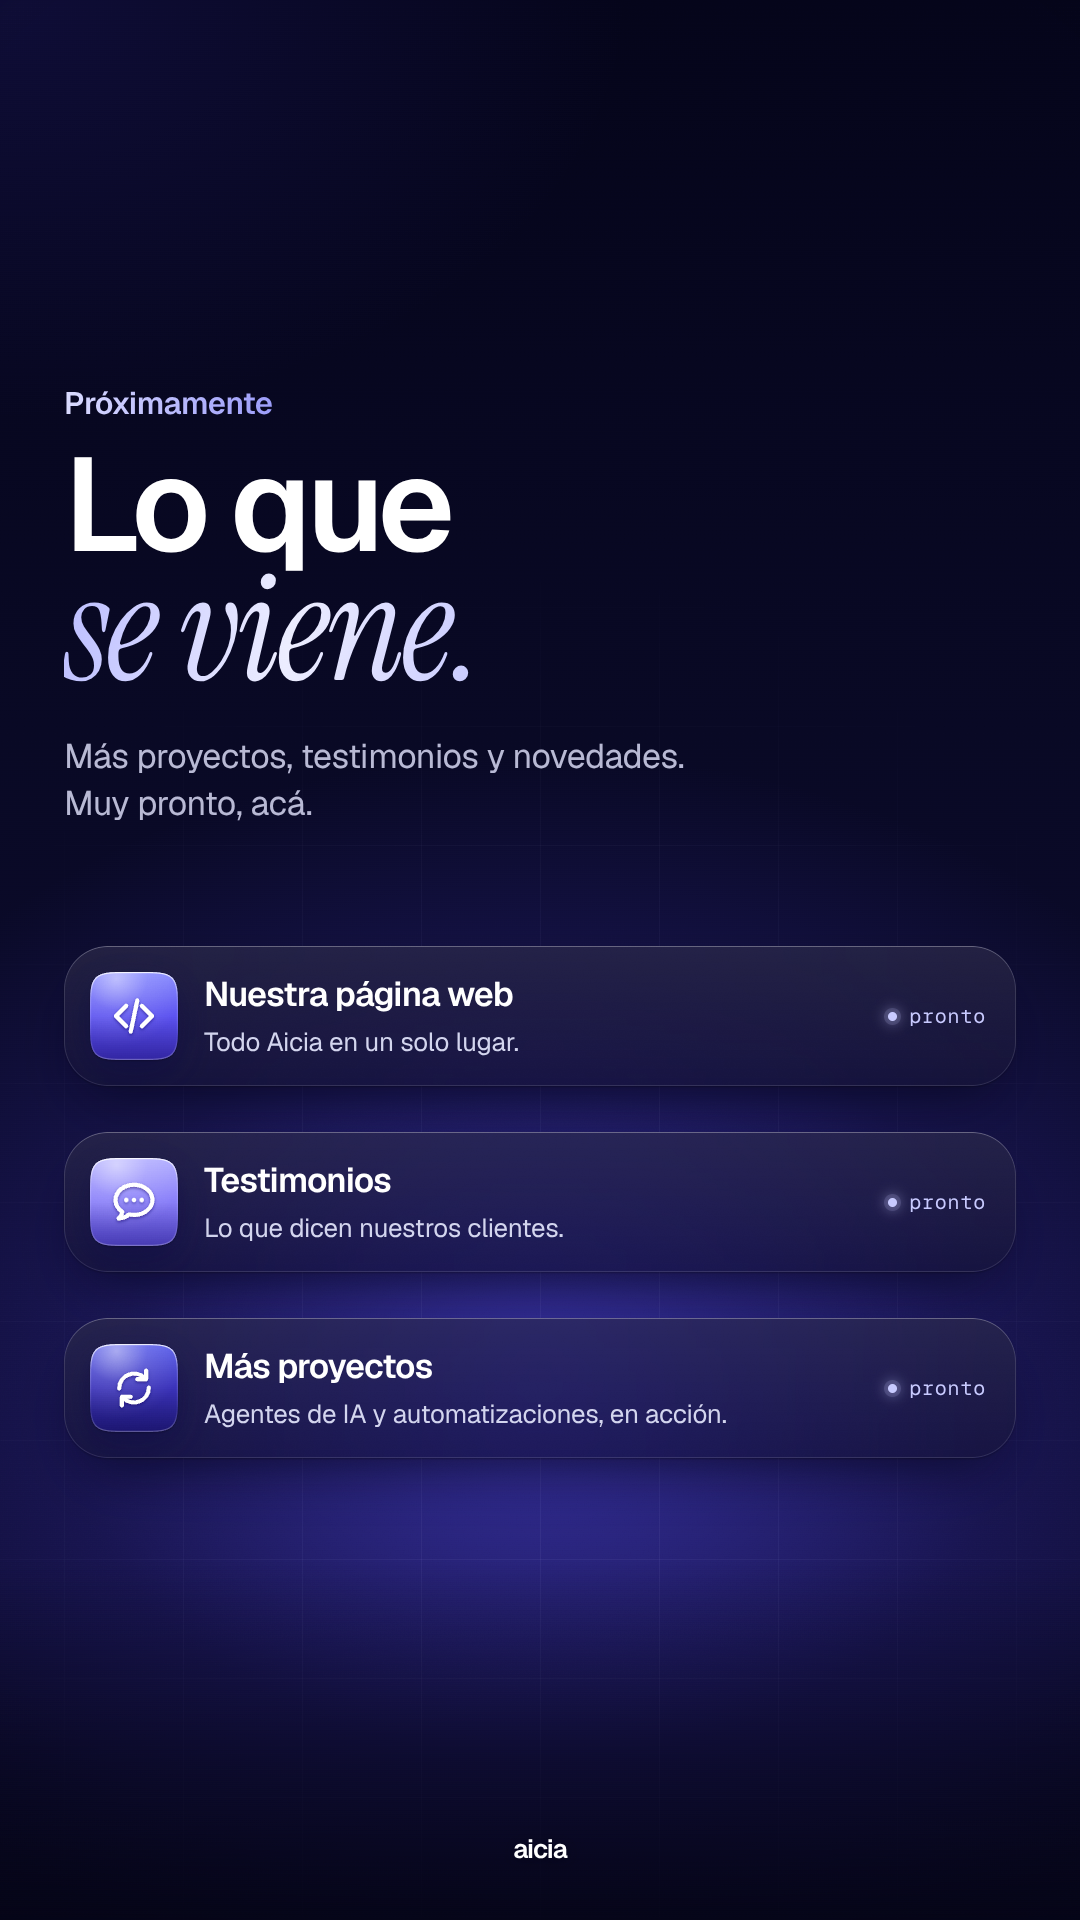
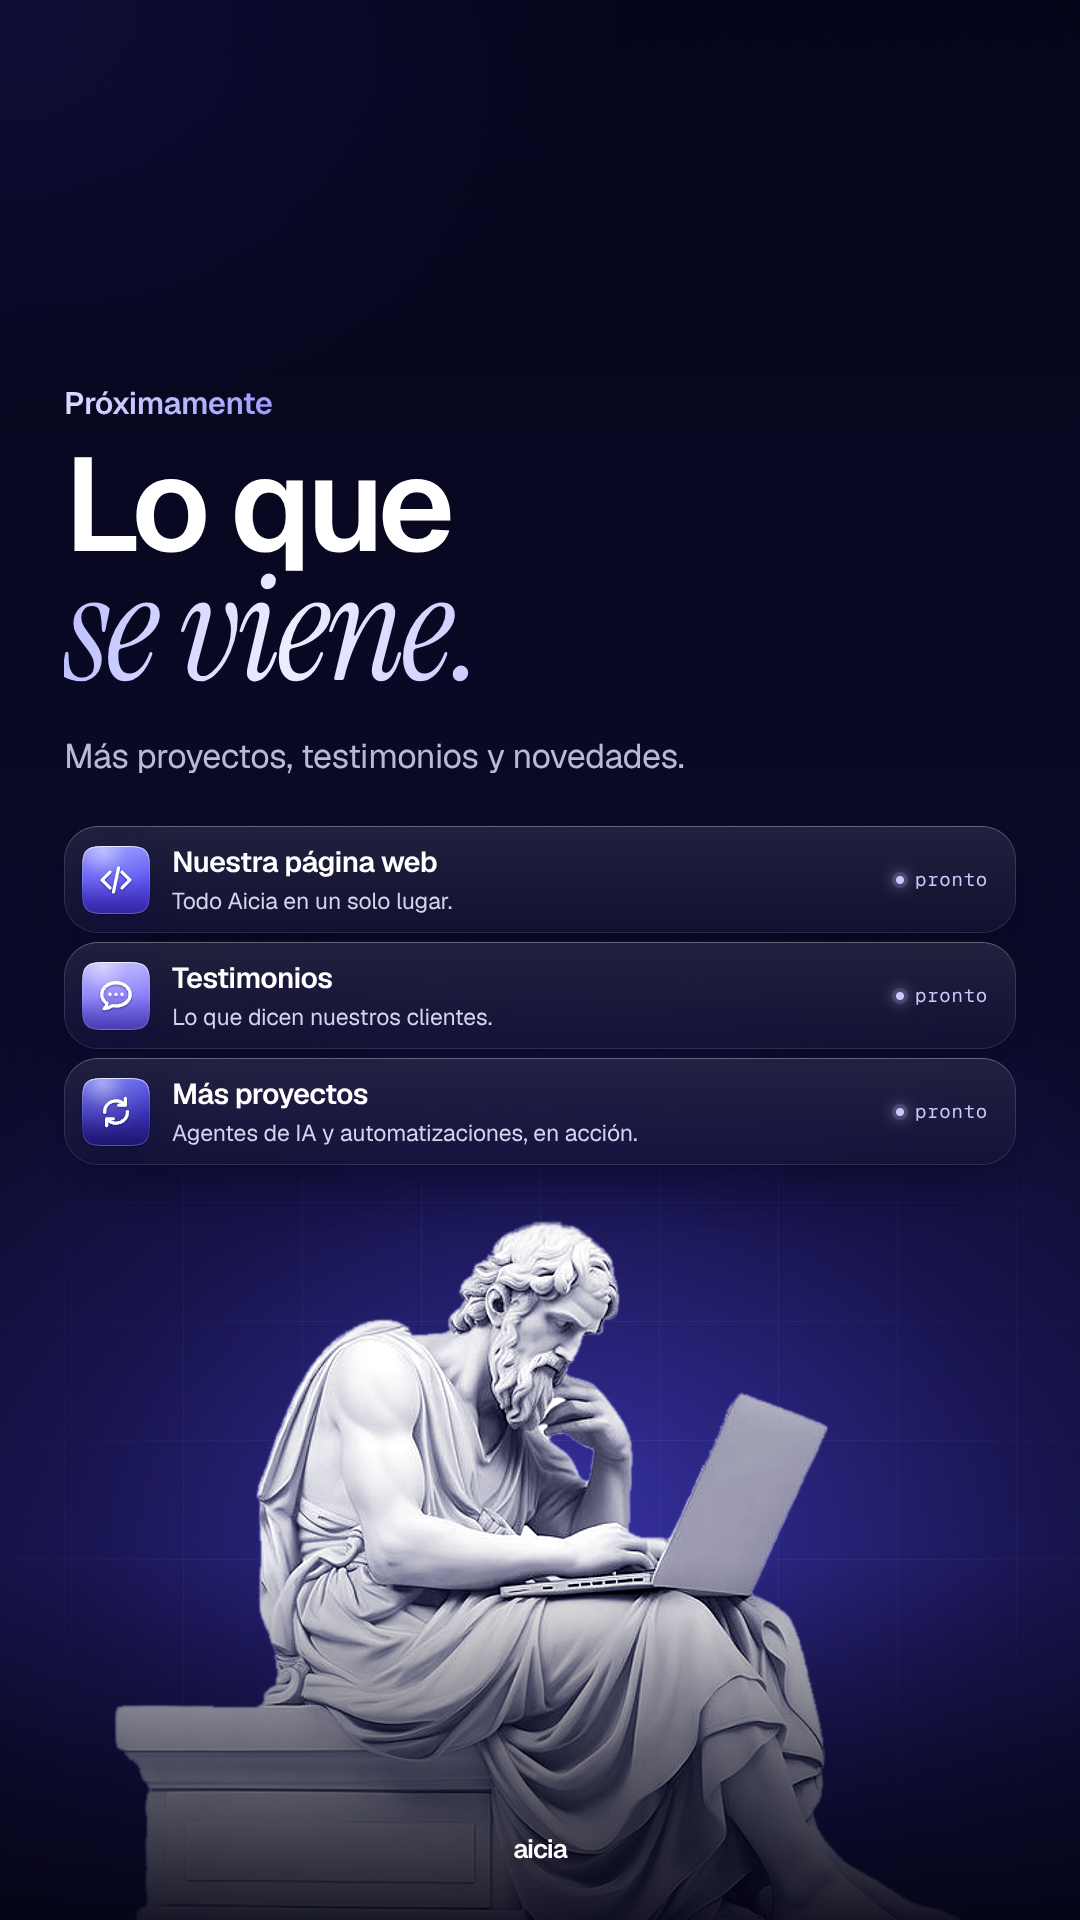
Proyectos · Próximamente: filósofo de mármol con laptop como imagen protagonista
Claude-Session: https://claude.ai/code/session_01SBSshHAET78NiDLxszLW9R

Changed region(s): [[0.0611, 0.4062, 0.8861, 1.0], [0.825, 0.5, 0.9167, 0.6562], [0.825, 0.4375, 0.8556, 0.4688]]

diff --git a/historias/clientes-proyectos/historias.html b/historias/clientes-proyectos/historias.html
@@ -240,19 +240,19 @@ svg.app .gl .f{fill:#fff;stroke:none}
 .card .pill b{font-weight:600;background:linear-gradient(90deg,#E4E5FF,#B9BBFF);-webkit-background-clip:text;background-clip:text;-webkit-text-fill-color:transparent}
 
 /* Proyectos · Próximamente: lo que se viene, en tarjetas de vidrio (sin fechas ni números inventados) */
-.p3{--gx:50%;--gy:72%;--gw:1150px;--gh:900px}
+.p3{--gx:52%;--gy:80%;--gw:1150px;--gh:900px}
 .p3 .eyebrow{left:var(--m);top:384px}
 .p3 .title{left:var(--m);top:440px;font-size:132px}
 .p3 .title .serif{font-size:150px}
 .p3 .lede{left:var(--m);top:734px;width:952px}
-.soon{left:var(--m);width:952px;display:flex;align-items:center;gap:26px;padding:26px 30px 26px 26px;border-radius:44px;z-index:4;
+.soon{left:var(--m);width:952px;display:flex;align-items:center;gap:22px;padding:17px 28px 17px 18px;border-radius:34px;z-index:4;
   background:linear-gradient(180deg,rgba(255,255,255,.09),rgba(255,255,255,.03)),rgba(11,10,34,.72)!important}
-.soon svg.app{width:88px;height:88px}
-.soon .nt{flex:1;min-width:0;display:flex;flex-direction:column;gap:8px}
-.soon b{font-size:34px;font-weight:600;letter-spacing:-0.025em;color:#fff;white-space:nowrap}
-.soon p{font-size:26px;color:#D2D4EE;letter-spacing:-0.008em;white-space:nowrap}
-.soon .st{display:flex;align-items:center;gap:12px;font-family:"Geist Mono",ui-monospace,monospace;font-size:20px;letter-spacing:.04em;color:#C7C9FF;white-space:nowrap}
-.soon .st i{width:9px;height:9px;border-radius:50%;background:var(--lav);box-shadow:0 0 0 4px rgba(199,201,255,.14),0 0 14px 2px rgba(199,201,255,.65)}
+.soon svg.app{width:68px;height:68px}
+.soon .nt{flex:1;min-width:0;display:flex;flex-direction:column;gap:5px}
+.soon b{font-size:29px;font-weight:600;letter-spacing:-0.022em;color:#fff;white-space:nowrap}
+.soon p{font-size:23px;color:#D2D4EE;letter-spacing:-0.005em;white-space:nowrap}
+.soon .st{display:flex;align-items:center;gap:11px;font-family:"Geist Mono",ui-monospace,monospace;font-size:19px;letter-spacing:.04em;color:#C7C9FF;white-space:nowrap}
+.soon .st i{width:8px;height:8px;border-radius:50%;background:var(--lav);box-shadow:0 0 0 4px rgba(199,201,255,.14),0 0 14px 2px rgba(199,201,255,.65)}
 
 /* Proyectos: foto real de manos con MacBook + sitio de Aicia en perspectiva */
 .p1{--gx:52%;--gy:64%;--gw:1250px;--gh:1000px}
@@ -476,12 +476,14 @@ svg.app .gl .f{fill:#fff;stroke:none}
 <!-- Va después del video de Bs.As. Top, para que la destacada no muestre un solo proyecto. -->
 <section class="story p3" data-file="aicia-proyectos-03-proximamente.png">
   <div class="stage"></div><div class="grid"></div>
+  <!-- Filósofo con la laptop (recorte de la foto que pasó Guille: preparar-filosofo.mjs) -->
+  <div class="subj mono" data-src="assets/filosofo-laptop.png" data-rim="left" style="left:40px;top:1073px;width:1000px;--tint:.2;--rim:.42"></div>
   <div class="eyebrow tx">Próximamente</div>
   <h1 class="title tx">Lo que<br><span class="serif">se viene.</span></h1>
-  <p class="lede tx">Más proyectos, testimonios y novedades.<br>Muy pronto, acá.</p>
-  <div class="soon glass" style="top:946px"><svg class="app" viewBox="0 0 100 100" data-g="g-code" data-s="ap-indigo"></svg><div class="nt"><b>Nuestra página web</b><p>Todo Aicia en un solo lugar.</p></div><span class="st"><i></i>pronto</span></div>
-  <div class="soon glass" style="top:1132px"><svg class="app" viewBox="0 0 100 100" data-g="g-message" data-s="ap-light"></svg><div class="nt"><b>Testimonios</b><p>Lo que dicen nuestros clientes.</p></div><span class="st"><i></i>pronto</span></div>
-  <div class="soon glass" style="top:1318px"><svg class="app" viewBox="0 0 100 100" data-g="g-flow" data-s="ap-deep"></svg><div class="nt"><b>Más proyectos</b><p>Agentes de IA y automatizaciones, en acción.</p></div><span class="st"><i></i>pronto</span></div>
+  <p class="lede tx">Más proyectos, testimonios y novedades.</p>
+  <div class="soon glass" style="top:826px"><svg class="app" viewBox="0 0 100 100" data-g="g-code" data-s="ap-indigo"></svg><div class="nt"><b>Nuestra página web</b><p>Todo Aicia en un solo lugar.</p></div><span class="st"><i></i>pronto</span></div>
+  <div class="soon glass" style="top:942px"><svg class="app" viewBox="0 0 100 100" data-g="g-message" data-s="ap-light"></svg><div class="nt"><b>Testimonios</b><p>Lo que dicen nuestros clientes.</p></div><span class="st"><i></i>pronto</span></div>
+  <div class="soon glass" style="top:1058px"><svg class="app" viewBox="0 0 100 100" data-g="g-flow" data-s="ap-deep"></svg><div class="nt"><b>Más proyectos</b><p>Agentes de IA y automatizaciones, en acción.</p></div><span class="st"><i></i>pronto</span></div>
   <div class="vignette"></div><div class="grain"></div>
   <div class="basefade"></div><div class="sig">aicia</div>
 </section>

diff --git a/CLAUDE.md b/CLAUDE.md
@@ -164,8 +164,11 @@ node exportar-instagram.mjs            # TODO listo para subir → historias/ins
   - `preparar-dispositivos.mjs` encuentra la pantalla de cada foto, mide las esquinas y la pinta de negro. La máscara del pulgar del iPad está medida a mano.
   - Fotos de mockups que pasó Guille y todavía no se usan: iPhone en la mano y ventana de vidrio flotante (están en el chat, no en el repo), y el iPad con manos (`assets/ipad-manos*.png`, listo y con la máscara del pulgar).
 - **Proyectos · Próximamente** (`aicia-proyectos-03-proximamente.png`, sección `.p3`): va después del video, así la destacada no muestra un solo proyecto, como pidió Guille.
-  - "Próximamente" / "Lo que *se viene.*" / "Más proyectos, testimonios y novedades. Muy pronto, acá."
-  - Debajo van 3 tarjetas de vidrio con ícono y la marca "pronto": Nuestra página web, Testimonios y Más proyectos.
+  - "Próximamente" / "Lo que *se viene.*" / "Más proyectos, testimonios y novedades."
+  - Debajo van 3 tarjetas de vidrio compactas con ícono y la marca "pronto": Nuestra página web, Testimonios y Más proyectos.
+  - Abajo, como imagen protagonista, el **filósofo de mármol con la laptop** que pasó Guille. Va en blanco y negro (`.subj.mono`), con tinte índigo y luz de borde.
+    - `assets/filosofo-laptop.png` sale de `filosofo-laptop-original.jpg` (fondo blanco) con `preparar-filosofo.mjs`.
+    - Ese script hace un relleno desde el borde más los huecos blancos grandes, suaviza el borde quitándole el blanco (así no queda halo) y agranda al doble.
   - Sin fechas ni números, para no prometer nada que no esté.
   - Cuando haya testimonios o proyectos nuevos, se reemplaza.
 - Tarjetas de FC Barber Shop tipo billete de $2.000 ("¿Pensaste que era plata?"): Guille las mostró. La recomendación fue no sumarlas a Proyectos como diseño suelto. Solo entran si el QR lleva a algo que hizo Aicia (reservas o agente), contado como "del papel a la reserva". Ojo: imitan un billete real.
